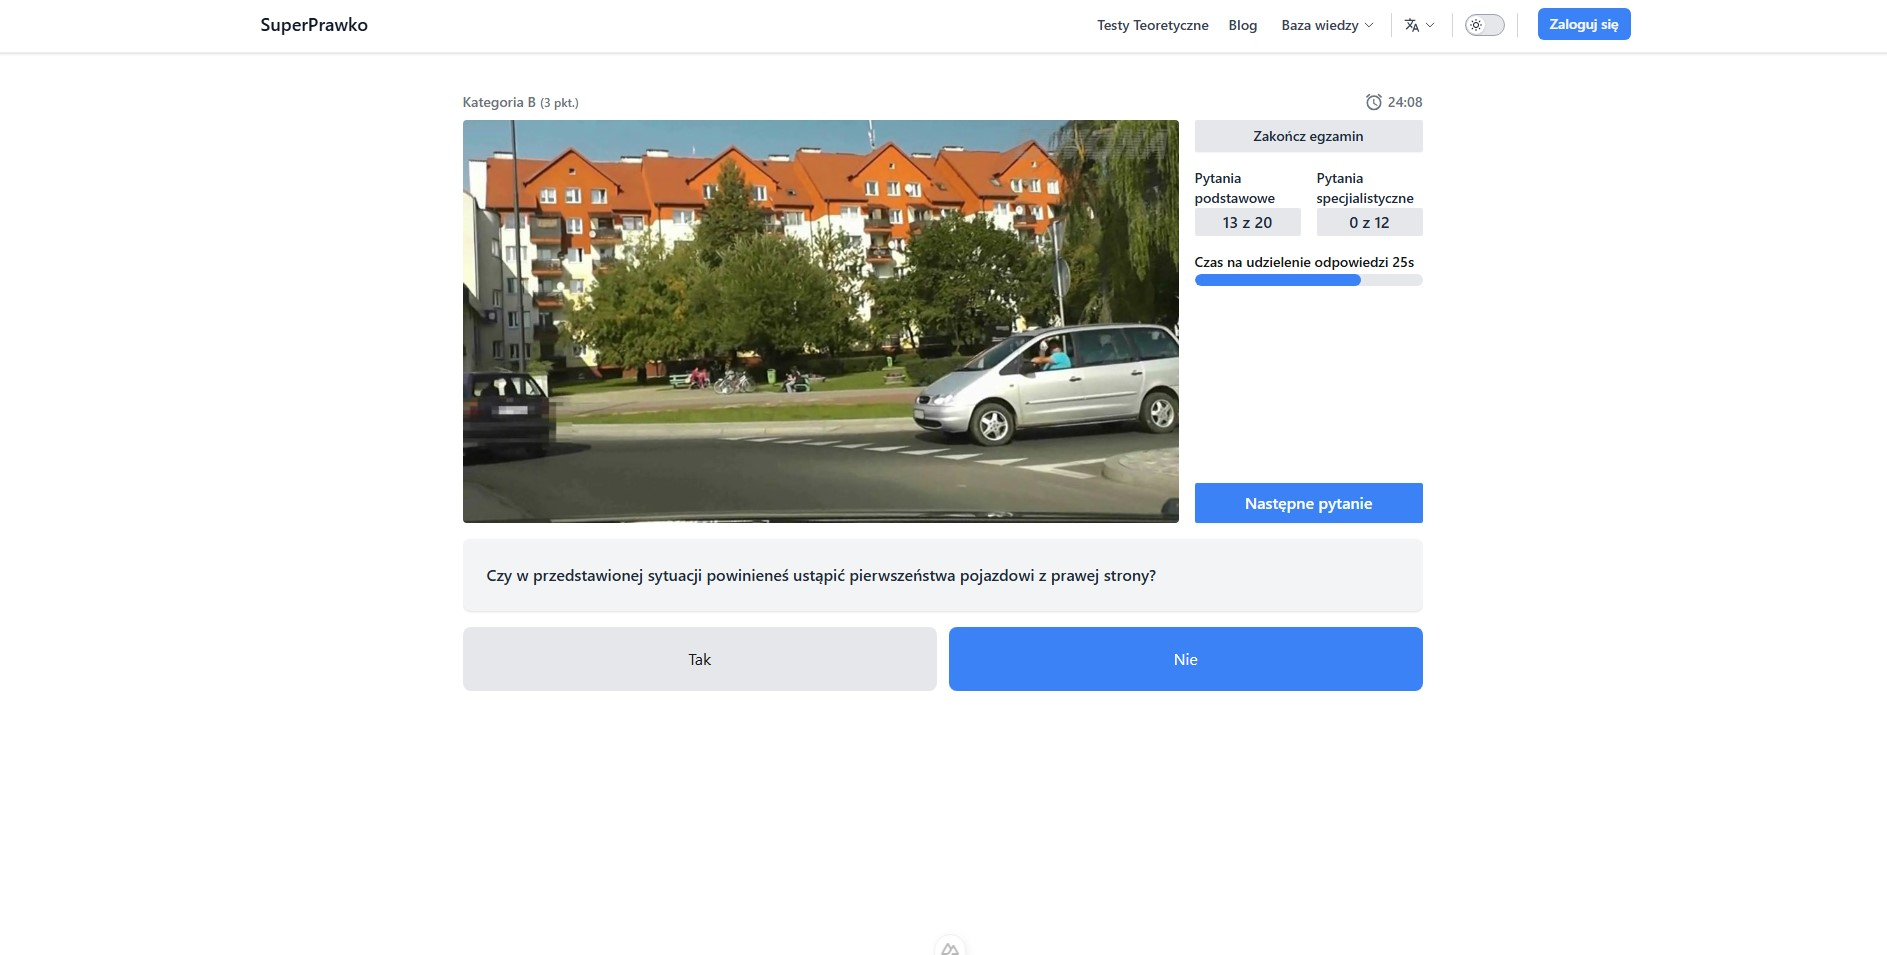
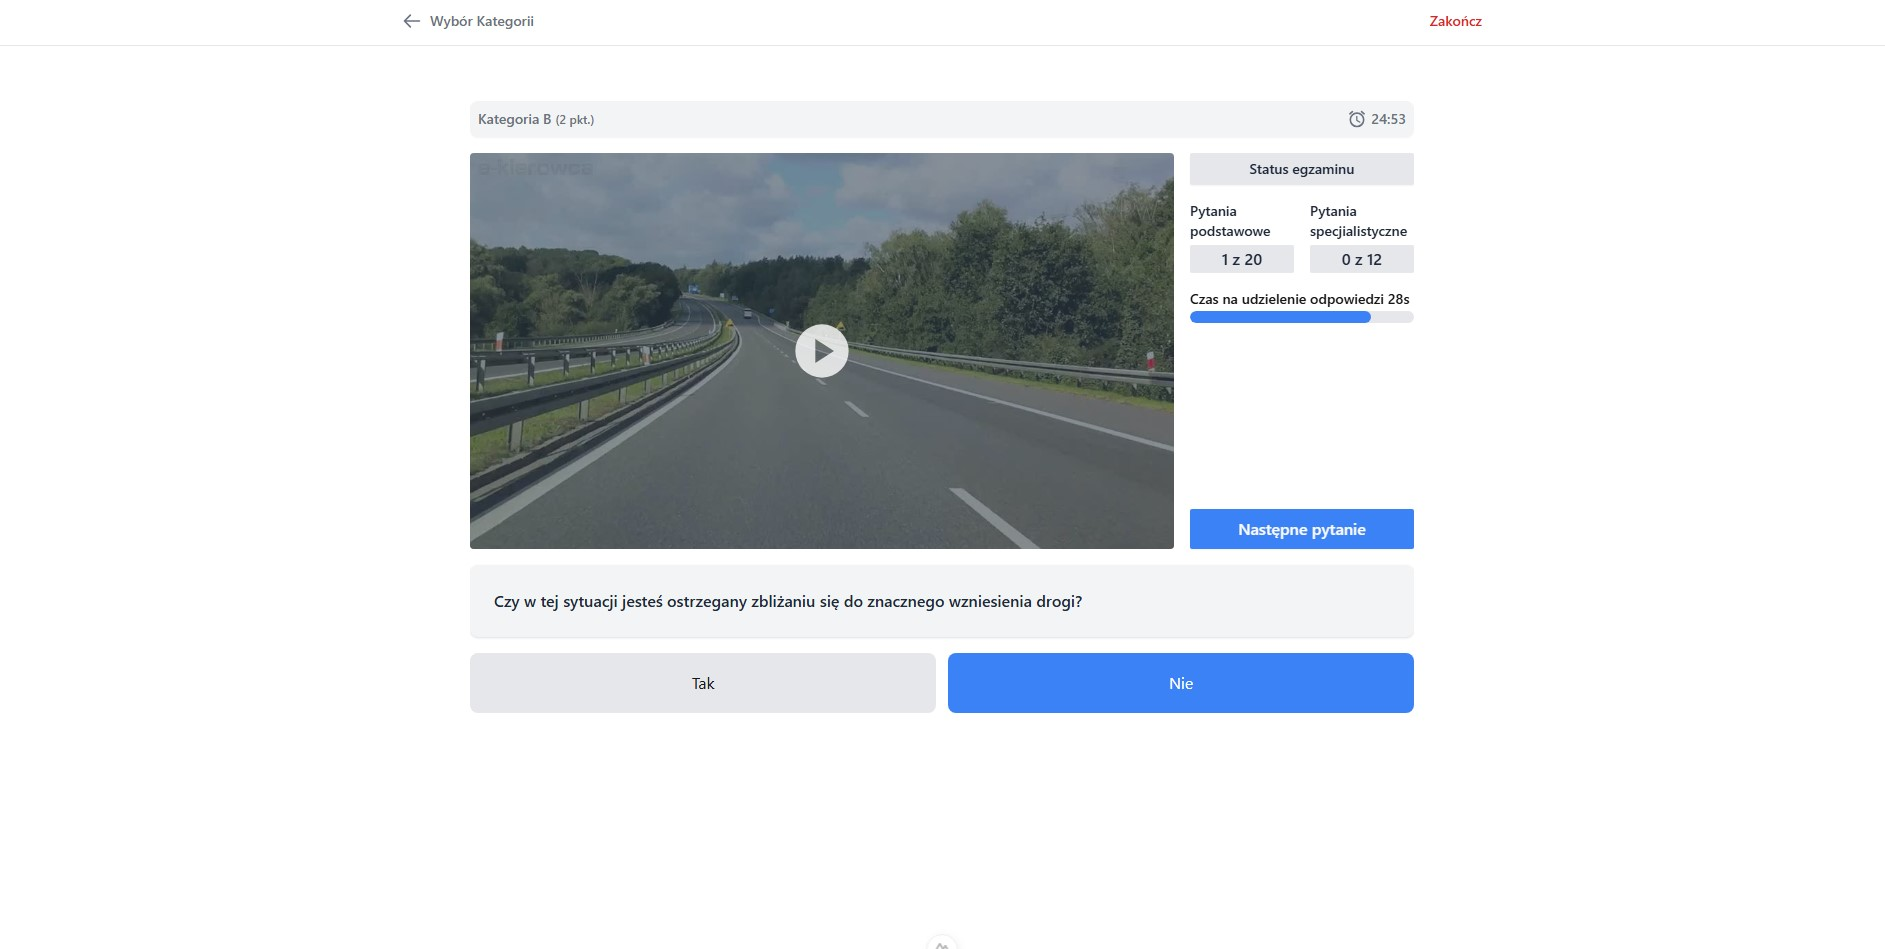
feat: Add new images and update README

diff --git a/README.md b/README.md
@@ -1,32 +1,89 @@
-# SuperPrawko 🇵🇱 🚗
+# SUPER PRAWKO 🇵🇱
 
-> A modern web application built with Nuxt.js for practicing the official Polish driving theory test.
+> Nowoczesna aplikacja webowa stworzona w Nuxt.js do nauki i przygotowania się do egzaminu teoretycznego na prawo jazdy w Polsce.
 
 ![SuperPrawko Main Screen](./Image_1.jpg)
 
-## About
+## 📋 Spis Treści
 
-SuperPrawko helps Polish driver candidates prepare for the national driving theory exam. It provides a realistic simulation using the official question database.
+- [O Aplikacji](#o-aplikacji)
+- [Funkcjonalności](#funkcjonalności)
+- [Zrzuty Ekranu](#zrzuty-ekranu)
+- [Stos Technologiczny](#stos-technologiczny)
+- [Jak Zacząć](#jak-zacząć)
+- [Planowane Funkcjonalności](#planowane-funkcjonalności)
 
-**Key Features:**
+## 🎯 O Aplikacji
 
-- realistic exam simulation (structure, timing, rules)
-- Official & up-to-date question database (images & videos included)
-- Detailed results review (score, pass/fail, question analysis)
-- Clean, responsive UI (Desktop & Mobile)
-- Dark Mode support
+**SUPER PRAWKO** to kompleksowe narzędzie dla kandydatów na kierowców, umożliwiające skuteczne przygotowanie się do państwowego egzaminu teoretycznego. Aplikacja oferuje realistyczną symulację egzaminu z wykorzystaniem oficjalnej bazy pytań zgodnej z polskimi przepisami.
 
-## Screenshots
+## ✨ Funkcjonalności
 
-**Exam View**
+### 🎮 Symulacja Egzaminu Państwowego
+
+- **Oficjalna struktura egzaminu**: 32 pytania zgodnie z wymogami państwowymi
+  - **20 pytań podstawowych** z odpowiedziami TAK/NIE
+  - **12 pytań specjalistycznych** z opcjami A/B/C
+- **System czasowy**: 30 sekund na każde pytanie
+- **Automatyczne losowanie** pytań z oficjalnej bazy danych
+- **Wybór kategorii** prawa jazdy
+
+### 📚 Tryb Nauki _(wkrótce dostępny)_
+
+- Nauka podzielona na działy tematyczne
+- Możliwość skupienia się na konkretnych obszarach wiedzy
+- Progresywne uczenie się
+
+### 📊 Panel Wyników
+
+- **Natychmiastowa ocena**: status zdany/niezdany
+- **Szczegółowa analiza**: przegląd wszystkich odpowiedzi
+- **Identyfikacja błędów**: podgląd pytań z nieprawidłowymi odpowiedziami
+- **Możliwość powtórki**: analiza konkretnych pytań
+
+### 🎨 Interfejs Użytkownika
+
+- **Responsywny design**: optymalizacja dla desktop i mobile
+- **Czytelny layout**: intuicyjna nawigacja
+- **Wsparcie multimediów**: obsługa obrazów i materiałów wideo
+- **Tryb ciemny**: komfort użytkowania
+
+## 📱 Zrzuty Ekranu
+
+### Dashboard
+
+![SuperPrawko Dashboard](./Image_4.jpg)
+![SuperPrawko Panel](./Image_5.jpg)
+
+### Widok Egzaminu
+
 ![SuperPrawko Exam View](./Image_2.jpg)
-_Exam interface showing question, media, options, and timers._
+_Interfejs egzaminu z pytaniem, materiałami multimedialnymi, opcjami odpowiedzi i licznikami czasu._
 
-**Results Summary**
+### Podsumowanie Wyników
+
 ![SuperPrawko Results Summary](./Image_3.jpg)
-_Post-exam screen with score, pass/fail status, and question grid._
+_Ekran wyników z oceną końcową, statusem zdany/niezdany i przeglądem wszystkich pytań._
 
-## Tech Stack
+### Wersja Mobilna
 
-- **Frontend:** Nuxt/Vue, Pinia, Tailwind CSS
-- **Backend:** Laravel API.
+<p align="center">
+  <img src="./Image_7.jpg" width="200" alt="Mobile view 1"/>
+  <img src="./Image_8.jpg" width="200" alt="Mobile view 2"/>
+  <img src="./Image_9.jpg" width="200" alt="Mobile view 3"/>
+</p>
+
+## 🛠 Stos Technologiczny
+
+- **Nuxt.js/Vue.js** - framework aplikacji
+- **Pinia** - zarządzanie stanem aplikacji
+- **Tailwind CSS** - stylowanie i responsywność
+- **Laravel API** - serwer aplikacji i API
+- **Baza danych** - SQLite
+
+## 📈 Planowane Funkcjonalności
+
+- [ ] **Tryb nauki z działami** - systematyczna nauka według tematów
+- [ ] **Statystyki postępów** - śledzenie rozwoju umiejętności
+- [ ] **Tryb offline** - nauka bez połączenia internetowego
+- [ ] **Wyjaśnienia do pytań** - szczegółowe omówienia
